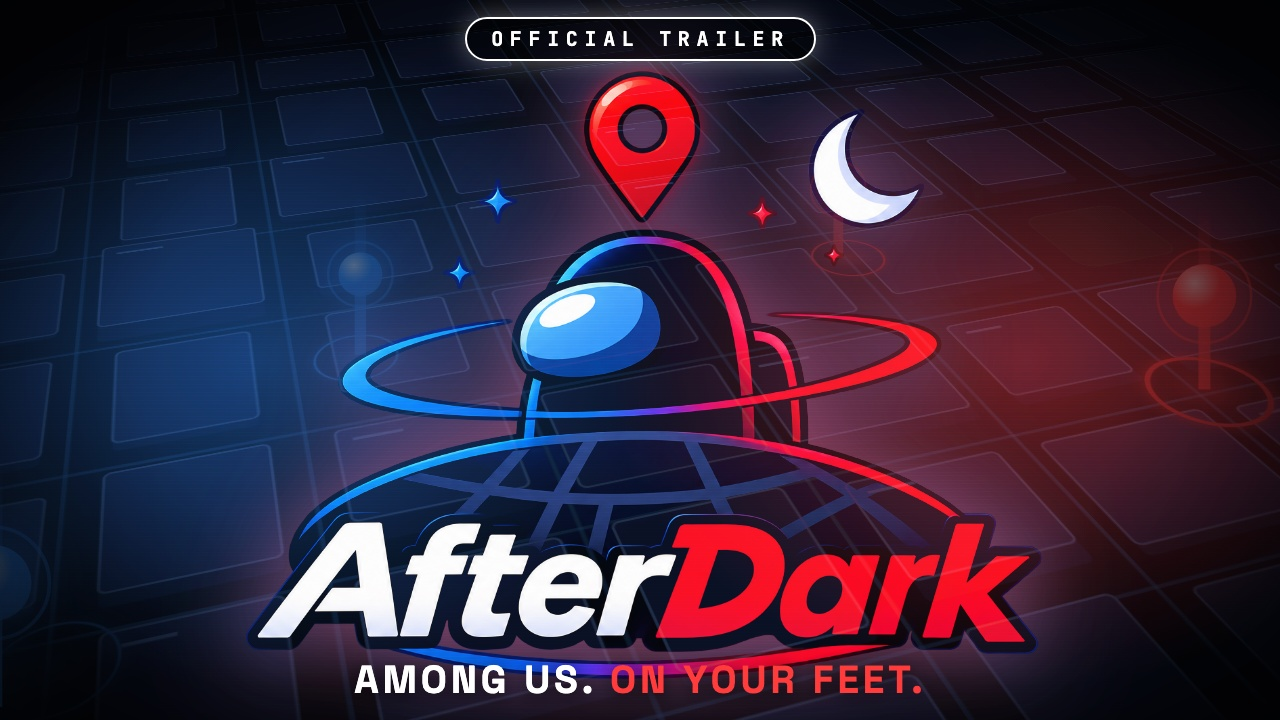
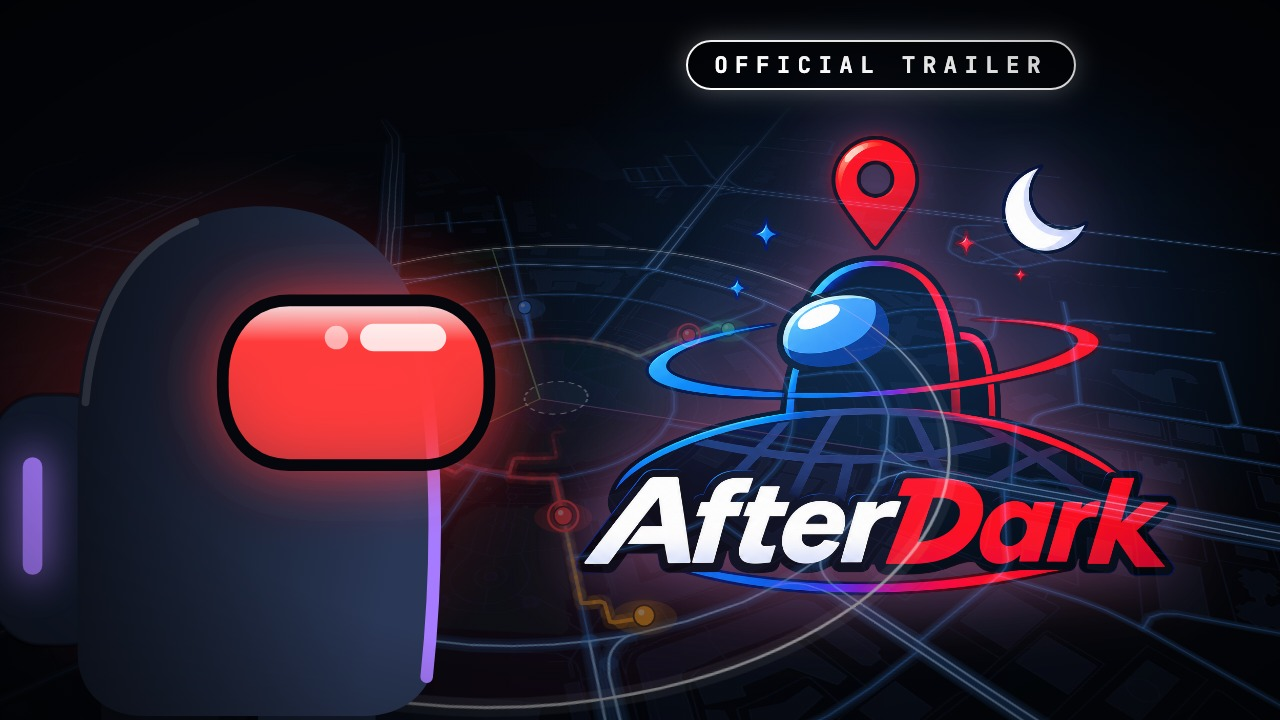
docs: link the published cinematic trailer everywhere
README badge, trailer section and doc map, PROGRESS (status, session
log), CHANGELOG and DEMO point to https://www.youtube.com/watch?v=U6HoX-31tbk.
The first cut's upload is gone, so no link to it remains. New thumbnail
in docs/screenshots.

Claude-Session: https://claude.ai/code/session_013C4EzqfwyMs4EKyeFieEVj

diff --git a/PROGRESS.md b/PROGRESS.md
@@ -6,7 +6,7 @@
 ## Current status
 **✅ ALL 15 PHASES DONE: AfterDark v1.0.0** (2026-11-24). What remains is for people: the final field test with a real group and the demo (Manual actions, [docs/DEMO.md](docs/DEMO.md)). Ideas for after the hackathon are in the Backlog.
 
-**Trailer:** <https://www.youtube.com/watch?v=jajMJy-C4BI> (60 s; source in [`trailer/`](trailer/README.md))
+**Trailer:** <https://www.youtube.com/watch?v=U6HoX-31tbk> (60 s cinematic cut; source in [`trailer/`](trailer/README.md))
 
 **Live URL:** <https://afterdark-24gx.onrender.com> (Render free, Singapore; sleeps after ~15 min idle, first load up to ~1 min)
 
@@ -329,7 +329,8 @@ _The human pastes results here using the checklist in docs/TESTING.md §6. Mark 
 ## Session log
 | Date | Phase | Summary |
 |---|---|---|
-| 2026-11-25 | Trailer (after v1.0.0) | A 60-second trailer for YouTube, published at <https://www.youtube.com/watch?v=jajMJy-C4BI>. Standalone Remotion project in `trailer/` (not in the pnpm workspace; ignored by ESLint and Prettier, so `pnpm verify` is unaffected): a tilted 3D night-city map with projected markers, trails and crewmates, animated minigame holograms, an original soundtrack synthesised in code (`audio/make-music.mjs`, 120 BPM, cuts on bar lines) and Playwright capture scripts. Upload copy in `trailer/YOUTUBE.md`; thumbnail `docs/screenshots/trailer-thumbnail.jpg`. No game code changed. |
+| 2026-11-25 | Trailer, cinematic cut (after v1.0.0) | Replaced the first trailer with a cinematic cut on the creator's feedback ("build it like a trailer, not an information-loaded video"). Hand-animated shots on a real OpenStreetMap street map of Connaught Place (`prep/build_map.py` bakes the base image, vector streets and walking routes), a 3D map camera with projected players, trails and pins, SVG crewmates, live minigames, title cards only where they earn it, and an original score with sound effects placed on the frame of each picture event (`audio/make-music.mjs`, edit in `src/cine/timeline.json`). Published at <https://www.youtube.com/watch?v=U6HoX-31tbk>; the first cut's video, scenes, soundtrack and screenshots were deleted and its YouTube upload removed. New thumbnail `docs/screenshots/trailer-thumbnail.jpg`. No game code changed. |
+| 2026-11-25 | Trailer (after v1.0.0) | A 60-second trailer for YouTube (first cut; replaced the same day by the cinematic cut above, and its upload withdrawn). Standalone Remotion project in `trailer/` (not in the pnpm workspace; ignored by ESLint and Prettier, so `pnpm verify` is unaffected): a tilted 3D night-city map with projected markers, trails and crewmates, animated minigame holograms, an original soundtrack synthesised in code (`audio/make-music.mjs`, 120 BPM, cuts on bar lines) and Playwright capture scripts. Upload copy in `trailer/YOUTUBE.md`; thumbnail `docs/screenshots/trailer-thumbnail.jpg`. No game code changed. |
 | 2026-11-24 | Logo (after v1.0.0) | The creator's logo replaces the crescent-and-eye everywhere (ADR-111). Master `apps/client/brand/afterdark-logo.png`; `pnpm icons` (`scripts/render-icons.mjs`) now renders the emblem icons (192, 512, apple-touch 180, maskable 512), `favicon-32.png`, and `src/assets/brand/{logo-768,logo-1536,wordmark-480}.webp`. Home: the logo is the `<h1>` at 140 % of the column (`main` clips sideways overflow below `lg`), the night map is laptop-only and lost its moon, the page's top glow is off on Home (`body:has(.hero-logo)`). Lobby header: the wordmark. `.brand-art` (`mix-blend-mode: lighten`), `.hero-logo` (edge mask), Workbox precaches `webp`. Deleted `icon.svg`, `icon-maskable.svg`, `favicon.svg`. `pnpm verify` green (1140 tests); e2e smoke, polish, layout, lobby and pwa 15/15. **Gotcha:** e2e reuses a running `pnpm dev`, which has no `TEST_ROOM_SALT`, so roles go random and in-game specs can fail (an imposter host has no task cards): stop your own dev server before `pnpm e2e`. |
 | 2026-11-24 | Home redesign (after v1.0.0) | Home became a hero page (ADR-110). `components/home/NightScene.tsx`: an inline-SVG night map with SMIL motion (six walkers, one tailed by an Imposter with the dashed "exposed" ring, pulsing crew task pins, the Base, the blinking crescent eye), still under reduced motion (`hooks/useReducedMotion.ts`). `screens/Home.tsx`: split-tone wordmark, pitch, a facts line from `DEFAULT_CONFIG` and `PRESETS`, the same controls as before, a "How a game goes" section below the fold, two columns at `lg`. Brand tokens `--brand-crew`/`--brand-imposter`, the `scene-in` fade. Fixed the invisible infected dot in the How to play picture. `.impeccable/` (a design tool's cache) is git- and Prettier-ignored. New e2e: Home fits a 360 × 640 phone. `pnpm verify` green (1140 tests); e2e smoke, polish, layout, lobby and pwa 15/15. Main chunk 124.5 → 128.3 KB gzipped. |
 | 2026-11-24 | 14 | Hardening, final checks and v1.0.0. **Security:** an OWASP-style walk of the gateway (zod on every handler, usernames, helmet/CSP, same-origin sockets, logs, `dev:*` gating, 132-bit tokens and replace logic, 16 KB frames, 10/s and 2/s socket limits); added the missing lobby creation limits (5 a minute per client address, loopback exempt; 200 lobbies; `SERVER_BUSY`; ADR-107) and fuzzing of every event, every minigame body and the co-op PIN; production dependencies audit clean. **Anti-spoof:** found and fixed a two-message teleport (a forged 1970 timestamp stretched the speed check's gap): the gap is now bounded by server time; re-anchors are counted and logged, no "suspicious GPS" indicator (ADR-108). **Regression:** `e2e/fullgame.spec.ts` (2 humans + 6 bots through every system to results and Play again, with a raw-frame leak scan of the crew host); hardened the no-go, Key Fetch and too-few-points specs; the whole suite 36 passed, 2 skipped, 3 runs in a row. **Load:** `pnpm bots:load`; 20 × 8 locally p95 183 ms, tick p99 2.5 ms, 237 MB; Render 5 × 8 p95 1.09 s. **Tuning:** no field data, defaults kept; 10-player advice from the simulator (ADR-109). **Quality:** `coopUpkeep.ts` split from `coop.ts`, 4 dead exports removed, CONFIG.md checked against the code by a test. **Docs:** README (screenshots, how to play, architecture diagram), DEMO.md, CHANGELOG, MIT LICENSE, ARCHITECTURE layout, TESTING, MANUAL_SETUP; versions 1.0.0. Tools: `E2E_SERVER_PORT`/`AFTERDARK_SERVER_URL` (another app held port 3000). Deviations: Render load test 5 lobbies, not 20 (free plan, one address); field-test tuning deferred for lack of data (ADR-109). |

diff --git a/README.md b/README.md
@@ -12,7 +12,7 @@ No accounts and no app store: share a 6-letter code and play. **Live:** <https:/
 
 > Built for the CodeNMode hackathon at SIT, written entirely with Claude Code, one phase per session ([build plan](docs/BUILD_PLAN.md), [progress](PROGRESS.md)).
 
-[![Trailer](https://img.shields.io/badge/trailer-YouTube-red?logo=youtube&logoColor=white)](https://www.youtube.com/watch?v=jajMJy-C4BI) [![CI](https://github.com/arunishrajput/afterdark/actions/workflows/ci.yml/badge.svg)](https://github.com/arunishrajput/afterdark/actions/workflows/ci.yml)
+[![Trailer](https://img.shields.io/badge/trailer-YouTube-red?logo=youtube&logoColor=white)](https://www.youtube.com/watch?v=U6HoX-31tbk) [![CI](https://github.com/arunishrajput/afterdark/actions/workflows/ci.yml/badge.svg)](https://github.com/arunishrajput/afterdark/actions/workflows/ci.yml)
 
 <table>
   <tr>
@@ -29,9 +29,9 @@ No accounts and no app store: share a 6-letter code and play. **Live:** <https:/
 </table>
 
 ## Trailer
-[![Watch the AfterDark trailer on YouTube](docs/screenshots/trailer-thumbnail.jpg)](https://www.youtube.com/watch?v=jajMJy-C4BI)
+[![Watch the AfterDark trailer on YouTube](docs/screenshots/trailer-thumbnail.jpg)](https://www.youtube.com/watch?v=U6HoX-31tbk)
 
-A 60-second trailer, made with Remotion: [watch it on YouTube](https://www.youtube.com/watch?v=jajMJy-C4BI). Its source is in [`trailer/`](trailer/README.md).
+A 60-second cinematic trailer: [watch it on YouTube](https://www.youtube.com/watch?v=U6HoX-31tbk). Players cross a real street map of Connaught Place, New Delhi; minigames, an infection, a sabotage, a meeting and an ejection play out, over an original score synthesized in code. Made with Remotion; the source is in [`trailer/`](trailer/README.md).
 
 ## How to play
 1. **Gather** 4 to 12 people somewhere open and safe. The host creates a game, draws the play area on the map (and any no-go zones), and shares the code. Everyone joins, allows location and taps **Ready**.
@@ -101,7 +101,7 @@ The server decides everything: every rule, timer, random roll and win check live
 ## Docs
 | | |
 |---|---|
-| Product | [Trailer](https://www.youtube.com/watch?v=jajMJy-C4BI) · [PRD](docs/PRD.md) · [Original concept](docs/CONCEPT.md) · [INFILTR8 notes](docs/reference/INFILTR8_NOTES.md) · [Demo script](docs/DEMO.md) |
+| Product | [Trailer](https://www.youtube.com/watch?v=U6HoX-31tbk) · [PRD](docs/PRD.md) · [Original concept](docs/CONCEPT.md) · [INFILTR8 notes](docs/reference/INFILTR8_NOTES.md) · [Demo script](docs/DEMO.md) |
 | Game design | [Rules](docs/RULES.md) · [Roles & visibility](docs/ROLES.md) · [Scoring](docs/SCORING.md) · [Config](docs/CONFIG.md) · [Map & regions](docs/MAP_AND_REGIONS.md) · [Tasks](docs/TASKS.md) · [Meetings](docs/MEETINGS.md) |
 | Engineering | [Architecture](docs/ARCHITECTURE.md) · [Protocol](docs/PROTOCOL.md) · [UI/UX](docs/UI_UX.md) · [Testing](docs/TESTING.md) · [Decisions](docs/DECISIONS.md) · [Changelog](CHANGELOG.md) |
 | Process | [CLAUDE.md](CLAUDE.md) · [Build plan](docs/BUILD_PLAN.md) · [Manual setup](docs/MANUAL_SETUP.md) · [Progress](PROGRESS.md) |

diff --git a/docs/DEMO.md b/docs/DEMO.md
@@ -43,10 +43,10 @@ Roles are secret and random, so plan for it:
 | No network at all | The local server needs none once installed. Without the map tiles the area is drawn on a dark background: keep going. |
 | Neither window is the imposter | Present the crew side; for the infection beat, show window C's timeline ("Host became infected") instead. |
 | The bots are slow to reach the Base | Narrate over the meeting map; skip straight to the results in window C. |
-| A long dead moment | Play the 60-second trailer (<https://www.youtube.com/watch?v=jajMJy-C4BI>), or a 30-second screen recording of a full game from the dry run (record it with the OS screen recorder). |
+| A long dead moment | Play the 60-second trailer (<https://www.youtube.com/watch?v=U6HoX-31tbk>, or `trailer/out/afterdark-trailer.mp4` offline), or a 30-second screen recording of a full game from the dry run (record it with the OS screen recorder). |
 
 ## Useful facts if judges ask
-- **Trailer:** a 60-second trailer is on YouTube (<https://www.youtube.com/watch?v=jajMJy-C4BI>). Play it before the demo, or as the fallback if the live game fails.
+- **Trailer:** a 60-second cinematic trailer on YouTube (<https://www.youtube.com/watch?v=U6HoX-31tbk>; offline copy `trailer/out/afterdark-trailer.mp4`, rendered from [`trailer/`](../trailer/README.md)). Play it before the demo, or as the fallback if the live game fails.
 - **Server-authoritative:** every rule, timer, roll and win check runs on the server. The client only draws and sends intents. Each phone gets its own view built from an allow-list, so a crew phone never receives who is infected, not even in the raw network traffic (tested on every build).
 - **Safety:** "Stop somewhere safe" before every puzzle, never "run" in the copy (a test enforces it), no-go zones, and players can report an unsafe spot.
 - **Privacy:** positions live in server memory only, are never logged, and vanish with the lobby. No accounts.

diff --git a/CHANGELOG.md b/CHANGELOG.md
@@ -3,7 +3,7 @@
 AfterDark was built in 15 phases, one Claude Code session each ([docs/BUILD_PLAN.md](docs/BUILD_PLAN.md)). Every phase ended with a `phase-NN-done` tag; the full story of each is in [PROGRESS.md](PROGRESS.md) › Session log, and every design choice in [docs/DECISIONS.md](docs/DECISIONS.md). Versions follow [Semantic Versioning](https://semver.org/).
 
 ## Unreleased
-- **Trailer:** a 60-second YouTube trailer, [published](https://www.youtube.com/watch?v=jajMJy-C4BI), with its Remotion source in [`trailer/`](trailer/README.md): a 3D night-city map, animated minigames, an original synthesized soundtrack and a logo-first thumbnail. Standalone, so it is not part of `pnpm verify`.
+- **Trailer:** a 60-second cinematic trailer, [on YouTube](https://www.youtube.com/watch?v=U6HoX-31tbk), with its Remotion source in [`trailer/`](trailer/README.md): hand-animated shots on a real street map of Connaught Place, New Delhi, live minigames, an infection, a sabotage, a meeting and an ejection, an original score synthesized in code with sound design on every cut, and a new thumbnail. It replaces a first cut from the same day. Standalone, so it is not part of `pnpm verify`.
 - **Logo:** the creator's AfterDark logo replaces the crescent-and-eye everywhere: app icons, favicon, the Home hero and the lobby header, all rendered from one master by `pnpm icons` (ADR-111).
 - **Home:** a hero page with the logo, a one-line pitch and the game's facts, the live night map beside it on laptops, and "How a game goes" below the fold (ADR-110). The How to play infection picture shows its infected dot again.
 
